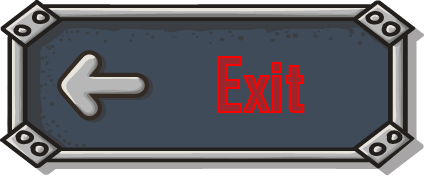
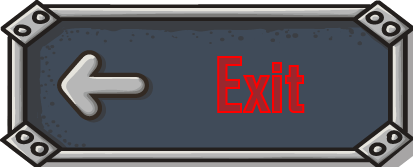
Animations of buttons

diff --git a/source/core/src/main/com/deco2800/game/components/gameover/GameOverDisplay.java b/source/core/src/main/com/deco2800/game/components/gameover/GameOverDisplay.java
@@ -3,6 +3,7 @@ package com.deco2800.game.components.gameover;
 import com.badlogic.gdx.Gdx;
 import com.badlogic.gdx.graphics.Texture;
 import com.badlogic.gdx.graphics.g2d.SpriteBatch;
+import com.badlogic.gdx.graphics.g2d.TextureRegion;
 import com.badlogic.gdx.scenes.scene2d.Actor;
 import com.badlogic.gdx.scenes.scene2d.InputEvent;
 import com.badlogic.gdx.scenes.scene2d.Touchable;
@@ -10,6 +11,8 @@ import com.badlogic.gdx.scenes.scene2d.ui.*;
 import com.badlogic.gdx.scenes.scene2d.ui.Image;
 import com.badlogic.gdx.scenes.scene2d.utils.ChangeListener;
 import com.badlogic.gdx.scenes.scene2d.utils.ClickListener;
+import com.badlogic.gdx.scenes.scene2d.utils.TextureRegionDrawable;
+import com.badlogic.gdx.scenes.scene2d.utils.TiledDrawable;
 import com.deco2800.game.services.ServiceLocator;
 import com.deco2800.game.ui.UIComponent;
 import org.slf4j.Logger;
@@ -46,16 +49,23 @@ public class GameOverDisplay extends UIComponent {
         tablebackGround = new Table();
         tablebackGround.setFillParent(true);
 
-
         //Restart button
         //TextButton restartBtn = new TextButton("Restart Game", skin);
-        Image restartBtn = new Image(ServiceLocator.getResourceService().getAsset("images/btn_restart1.png",
-                Texture.class));
+        Button.ButtonStyle restartStyle = new Button.ButtonStyle();
+        restartStyle.up= new TextureRegionDrawable(new TextureRegion(
+                new Texture(Gdx.files.internal("images/btn_restart1.png"))));
+        restartStyle.over= new TextureRegionDrawable(new TextureRegion(
+                new Texture(Gdx.files.internal("images/btn_restart2.png"))));
+        Button restartBtn = new Button(restartStyle);
 
         //Exit button
         //TextButton exitBtn = new TextButton("Exit", skin);
-        Image exitBtn = new Image(ServiceLocator.getResourceService().getAsset("images/btn_exit1.png",
-                Texture.class));
+        Button.ButtonStyle exitStyle = new Button.ButtonStyle();
+        exitStyle.up= new TextureRegionDrawable(new TextureRegion(
+                new Texture(Gdx.files.internal("images/btn_exit1.png"))));
+        exitStyle.over= new TextureRegionDrawable(new TextureRegion(
+                new Texture(Gdx.files.internal("images/btn_exit2.png"))));
+        Button exitBtn = new Button(exitStyle);
 
         //Background
         Image background = new Image(ServiceLocator.getResourceService().getAsset("images/Death_Screen_Background.png",
@@ -64,8 +74,7 @@ public class GameOverDisplay extends UIComponent {
         //stack.add(background);
 
         // when the user presses restart button
-        restartBtn.addListener(
-                new ClickListener() {
+        restartBtn.addListener(new ClickListener() {
                     @Override
                     public void clicked(InputEvent e,float x,float y) {
                         logger.debug("Restart button pressed");
@@ -74,8 +83,7 @@ public class GameOverDisplay extends UIComponent {
                 });
 
 // when the user presses exit button
-        exitBtn.addListener(
-                new ClickListener() {
+        exitBtn.addListener(new ClickListener() {
                     @Override
                     public void clicked(InputEvent e, float x, float y) {
                         logger.debug("Exit button pressed");

diff --git a/source/core/src/main/com/deco2800/game/components/player/PlayerStatsDisplay.java b/source/core/src/main/com/deco2800/game/components/player/PlayerStatsDisplay.java
@@ -83,8 +83,8 @@ public class PlayerStatsDisplay extends UIComponent {
     notification.top();
     notification.setFillParent(true);
     notification.padTop(0).padLeft(5f);
-    float noWidth = 619f;
-    float noHeight = 213f;
+    float noWidth = 519f;
+    float noHeight = 160f;
     noImage = new Image(ServiceLocator.getResourceService().getAsset("images/notification.png", Texture.class));
 
     notification.add(noImage).size(noWidth, noHeight).pad(5);
